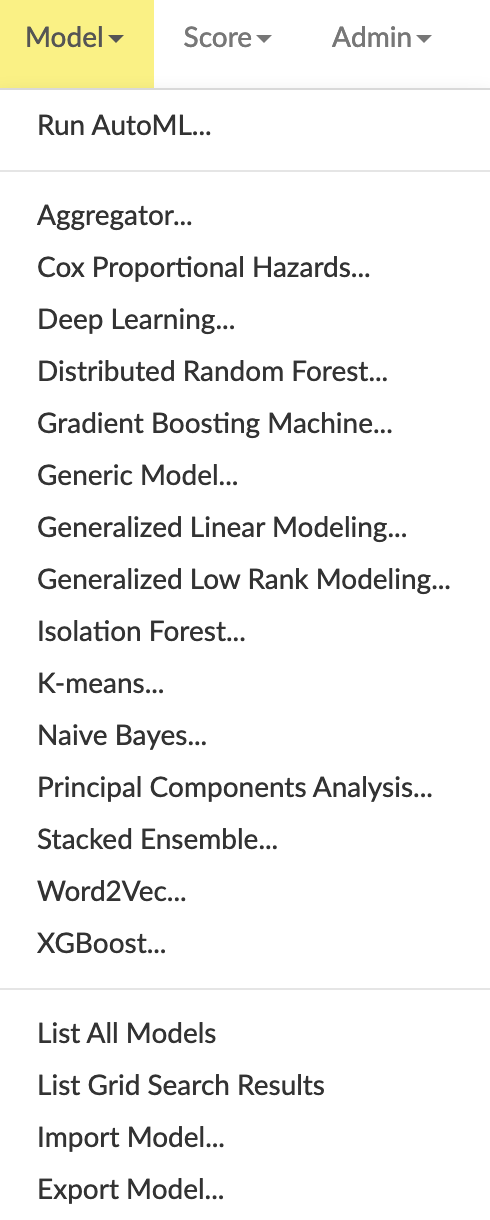
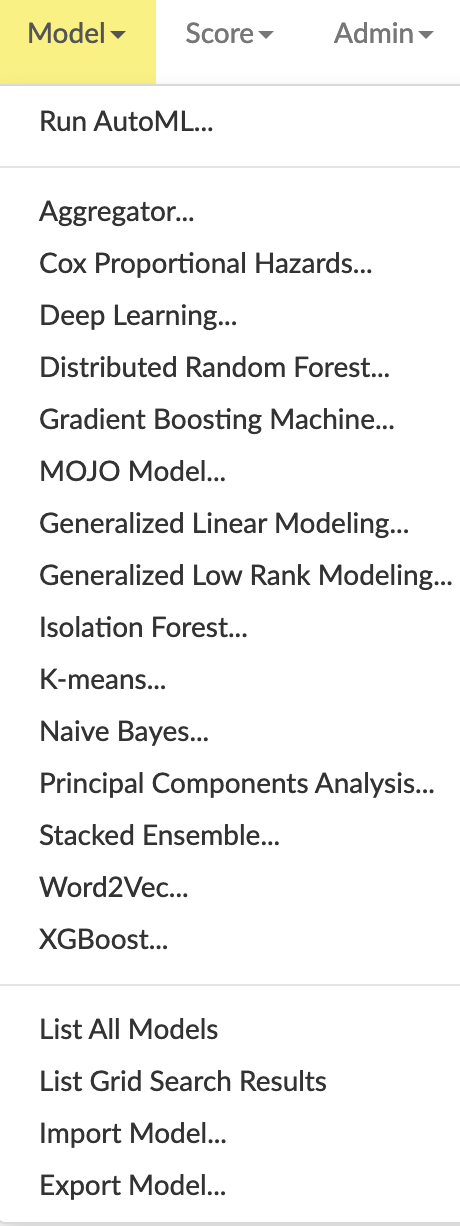
PUBDEV-6687: Update docs for MOJO import (#3733)
* PUBDEV-6687: Update docs for MOJO import

Generic model has been renamed to MOJO Model in Models menu. Documentation has been adjusted to reflect this change.

+ Driveby fix

* Added image + added MOJO Model to list of models

* changed TOC title to MOJO Models

* Minor update to mojo_import.rst

diff --git a/h2o-docs/src/product/flow.rst b/h2o-docs/src/product/flow.rst
@@ -641,7 +641,8 @@ In the **Build a Model** cell, select an algorithm from the drop-down menu. (Ref
  - **CoxPH**: Create a Cox Proportional Hazards model.
  - **Deep Learning**: Create a Deep Learning model.
  - **Distributed Random Forest**: Create a distributed Random Forest model.
- - **Gradient Boosting Machine**: Create a Gradient Boosted model
+ - **Gradient Boosting Machine**: Create a Gradient Boosted model.
+ - **MOJO Model**: Create a MOJO model.
  - **Generalized Linear Model**: Create a Generalized Linear model.
  - **Generalized Low Rank Model**: Create a Generalized Low Rank model.
  - **Isolation Forest**: Create an Isolation Forest model.

diff --git a/h2o-docs/src/product/data-science/mojo_import.rst b/h2o-docs/src/product/data-science/mojo_import.rst
@@ -1,4 +1,4 @@
-Mojo Import
+MOJO Models
 -----------
 
 Introduction
@@ -12,7 +12,7 @@ Supported MOJOs
 Only a subset of H2O MOJO models is supported in this version. 
 
 -  GBM (Gradient Boosting Machines)
--  DRF (Distributd Random Forest)
+-  DRF (Distributed Random Forest)
 -  IRF (Isolation Random Forest)
 -  GLM (Generalized Linear Model)
 

diff --git a/h2o-docs/src/product/data-science.rst b/h2o-docs/src/product/data-science.rst
@@ -50,7 +50,7 @@ Miscellaneous
 
    data-science/word2vec
 
-MOJO Import
+MOJO Models
 --------------
 
 .. toctree::
